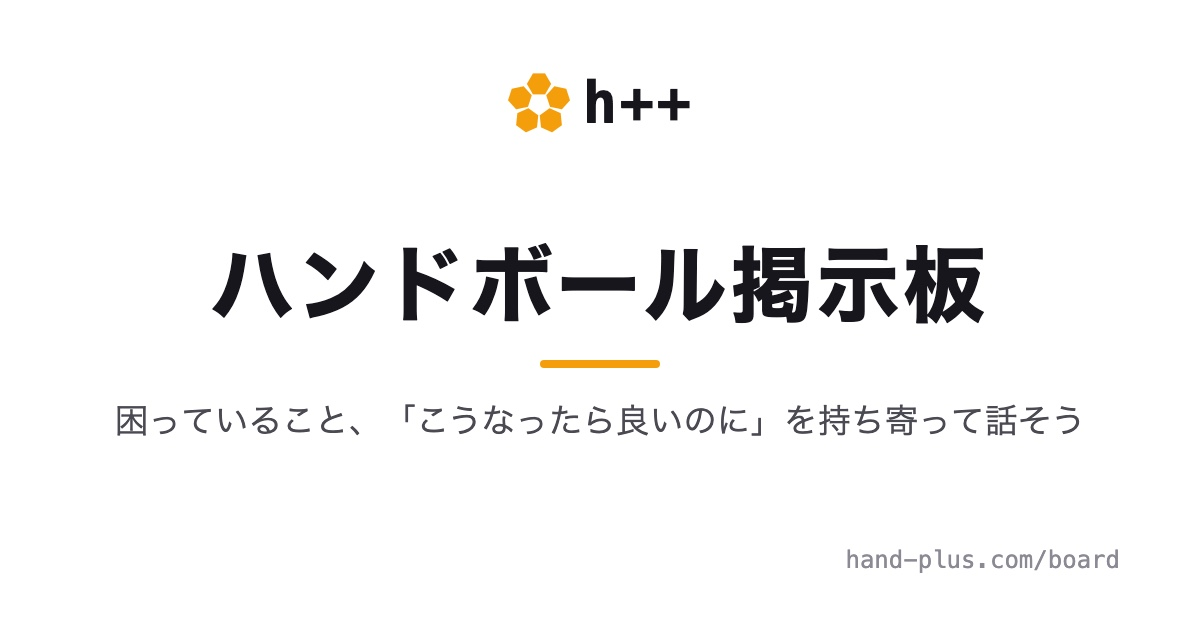
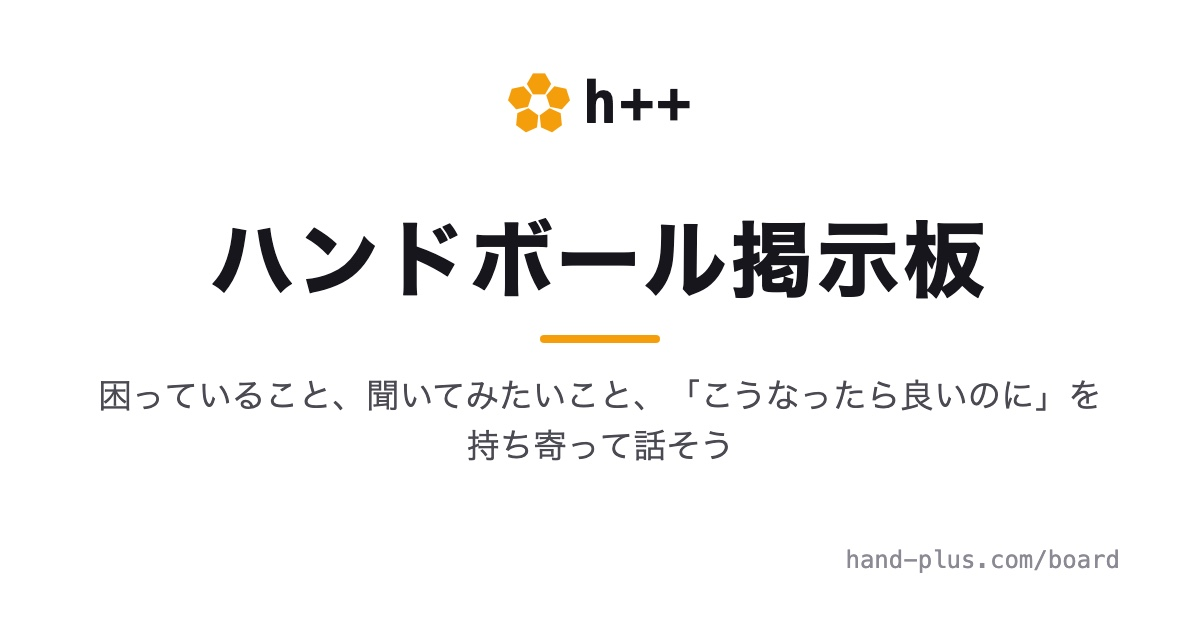
chore: 配信物をソースに合わせる
Published-By: publish-site
Source-Commit: 8ab9da81c332c8bb140d838ea6700ebbb5cd1667

Changed region(s): [[0.0617, 0.3317, 0.925, 0.754]]

diff --git a/board/index.html b/board/index.html
@@ -11,12 +11,12 @@
 <meta name="viewport" content="width=device-width, initial-scale=1">
 <meta name="robots" content="index,follow">
 <title>ハンドボール掲示板｜ハンドプラス</title>
-<meta name="description" content="ハンドボールで困っていることや、「こうなったら良いのに」と思うことを持ち寄って話す掲示板です。">
+<meta name="description" content="ハンドボールで困っていることや聞いてみたいこと、「こうなったら良いのに」と思うことを持ち寄って話す掲示板です。">
 <meta property="og:type" content="website">
 <meta property="og:locale" content="ja_JP">
 <meta property="og:url" content="https://hand-plus.com/board/">
 <meta property="og:title" content="ハンドボール掲示板">
-<meta property="og:description" content="ハンドボールで困っていることや、「こうなったら良いのに」と思うことを持ち寄って話す掲示板です。">
+<meta property="og:description" content="ハンドボールで困っていることや聞いてみたいこと、「こうなったら良いのに」と思うことを持ち寄って話す掲示板です。">
 <!-- OG は**このページ専用**（README「OG 画像の更新手順」の 1 枚 = 1 ページ）。
      生成元: og-source/index.html → scripts/generate-og.sh board/og-source/index.html board/images/og.jpg -->
 <meta property="og:image" content="https://hand-plus.com/board/images/og.jpg">
@@ -35,7 +35,7 @@
 </header>
 <main>
     <h1>ハンドボール掲示板</h1>
-    <p class="board-lead">ハンドボールで困っていることや、「こうなったら良いのに」と思うことを持ち寄って話す場所です。</p>
+    <p class="board-lead">ハンドボールで困っていることや聞いてみたいこと、「こうなったら良いのに」と思うことを持ち寄って話す場所です。</p>
 
     <!-- 並びは「議題の一覧 → 匿名投稿 → GitHub → 解決済み」（handball-project#605・#618）。読みに来た人がまず議題を見て、
          何を書く場所かを議題から知る。書く入口は、入りやすい匿名を GitHub より先に置く。

diff --git a/board/board.js b/board/board.js
@@ -45,7 +45,7 @@
     const NOTE = "ハンドボール掲示板のフォームから、名前を出さずに届いた投稿です。";
     const TURNSTILE_SRC = "https://challenges.cloudflare.com/turnstile/v0/api.js?render=explicit";
     // .github/ISSUE_TEMPLATE/board.yml の placeholder と同じ（GitHub の起票フォームと匿名のフォームを揃える）
-    const BODY_PLACEHOLDER = "何に困っているか、どんな場面か、どうなったら良いか。思いついたままで大丈夫です。";
+    const BODY_PLACEHOLDER = "何に困っているか、何を聞きたいか、どうなったら良いか。思いついたままで大丈夫です。";
 
     // ── 小さな部品 ──────────────────────────────────────────────
 

diff --git a/index.html b/index.html
@@ -70,7 +70,7 @@
 
     <!-- 掲示板はアプリではないので、アプリの一覧（.app-list）には入れない。 -->
     <h2>ハンドボール掲示板</h2>
-    <p>ハンドボールで困っていることや、「こうなったら良いのに」と思うことを持ち寄って話す場所です。<a href="board/">掲示板を見る</a></p>
+    <p>ハンドボールで困っていることや聞いてみたいこと、「こうなったら良いのに」と思うことを持ち寄って話す場所です。<a href="board/">掲示板を見る</a></p>
 </main>
 <footer class="site">
     <p>
